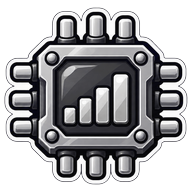
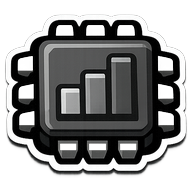
fix(combat+fiche): puces/etoiles/VS/rejouer agrandis, jauge lisible, clic court n'ouvre plus la fiche
Retours de l'audit visuel :

- MICRO-PUCES ET ETOILES : nouveaux dessins (plus gras, lisibles en petit) et
  taille d'affichage augmentee (puces 1.4->2em, etoiles 1.25->1.7em, triplet de
  la carte de campagne 1.5->1.9em) — « on voyait presque rien ».
- MEDAILLON VS : --cbt-versus-marque agrandi (56->76px sur telephone, plafond
  88->110px) — il etait trop petit au centre.
- ICONE REJOUER : .dc-again-icone 1.5->2.4em.
- JAUGE DE LA FICHE : le « 2 / 25 » s'inverse a la ligne de remplissage — couche
  claire sur toute la barre, couche sombre decoupee par le remplissage — au lieu
  d'une couleur fixe illisible sur le fond sombre a faible progression.
- CLIC COURT SUR UN CAPITAINE : n'ouvre plus la fiche (meme verrouille). La
  fiche ne s'ouvre qu'au maintien (480 ms) ; le tap ne fait qu'apercevoir /
  adopter. « On est cense rester appuye longtemps pour les details. »

Ajoute aussi UIRequiresFullScreen (iOS) : Apple exige les 4 orientations sur
iPad SAUF si l'app se declare plein ecran — ce qui autorise le verrou portrait.

diff --git a/www/css/dice.css b/www/css/dice.css
@@ -530,7 +530,7 @@
    155 px de large sur 852, soit 18,2 %, pour une hauteur qui depasse les cartes
    de 12 px en haut comme en bas. */
 #dicewrap .dc-vs-mark {
-  width: var(--cbt-versus-marque, clamp(58px, 18vw, 96px));
+  width: var(--cbt-versus-marque, clamp(80px, 22vw, 124px));
   height: auto;
   filter: drop-shadow(0 3px 8px rgba(0, 0, 0, .6));
   pointer-events: none;
@@ -797,13 +797,13 @@
    pour suivre le corps de texte de leur contexte (bandeau, fiche, carte de
    fin), donc pour grossir tout seuls sur tablette. Voir dice_state.js. */
 #dicewrap .dc-puce {
-  height: 1.4em;
+  height: 2em;
   width: auto;
   vertical-align: middle;
   filter: drop-shadow(0 1px 1px rgba(0, 0, 0, .55));
 }
 #dicewrap .dc-etoile-img {
-  height: 1.25em;
+  height: 1.7em;
   width: auto;
   vertical-align: -.2em;
   filter: drop-shadow(0 1px 1px rgba(0, 0, 0, .45));
@@ -811,7 +811,7 @@
 /* Le petit triplet des missions, sous chaque niveau de la carte, tient dans
    un bouton etroit : on serre les trois etoiles pour qu'elles ne debordent
    pas de la case. */
-#dicewrap .dc-camp-niv span .dc-etoile-img { height: 1.5em; vertical-align: middle; }
+#dicewrap .dc-camp-niv span .dc-etoile-img { height: 1.9em; vertical-align: middle; }
 
 /* Le score est LE chiffre du jeu : blanc, cerne, et gros. En or sur violet il
    se noyait dans le panneau — vu a l'ecran. */
@@ -1448,7 +1448,7 @@
 #dicewrap .dc-over-btns { display: flex; gap: 14px; justify-content: center; margin-top: 22px; flex-wrap: wrap; }
 /* Le bouton REJOUER porte son dessin (icon_replay.png), a gauche du mot. */
 #dicewrap .dc-again-btn { display: inline-flex; align-items: center; justify-content: center; gap: 8px; }
-#dicewrap .dc-again-icone { height: 1.5em; width: auto; flex: 0 0 auto; }
+#dicewrap .dc-again-icone { height: 2.4em; width: auto; flex: 0 0 auto; }
 #dicewrap .dc-over-win { box-shadow: inset 0 1px 0 rgba(255, 222, 170, .16), inset 0 0 30px rgba(0, 0, 0, .45), 0 0 60px rgba(201, 162, 39, .3), 0 12px 34px rgba(0, 0, 0, .6); }
 #dicewrap .dc-over-win h2 { color: var(--gold-hi); }
 #dicewrap .dc-over-loss h2 { color: #ff9a90; }
@@ -3631,19 +3631,20 @@
 }
 #dicewrap .dc-capf-jauge {
   position: relative;
-  height: 25px;
+  height: 26px;
   border-radius: 13px;
   background: rgba(12, 6, 30, .66);
   box-shadow: inset 0 0 0 2px rgba(232, 200, 106, .75);
   overflow: hidden;
 }
-#dicewrap .dc-capf-jauge > i {
-  display: block;
-  height: 100%;
-  border-radius: 11px;
-  background: linear-gradient(180deg, #f6d872, #d9a52c);
-  transition: width .3s ease;
-}
+/* ⛔ LE TEXTE S'INVERSE SUR LA LIGNE DE REMPLISSAGE. Un « 2 / 25 » d'une couleur
+   fixe restait illisible : sombre sur la piste sombre a faible progression, et
+   se perdait sur l'or a forte. On en pose DEUX, parfaitement superposes : une
+   couche CLAIRE sur toute la barre (lisible sur le fond sombre), et une couche
+   SOMBRE posee DANS le remplissage, que celui-ci decoupe (lisible sur l'or). La
+   bascule tombe donc pile a la frontiere du remplissage. La couche sombre est
+   large comme TOUTE la barre (largeur pilotee en ligne = 100/part %) et centree :
+   son centre retombe exactement sur celui de la couche claire. */
 #dicewrap .dc-capf-jauge > b {
   position: absolute;
   inset: 0;
@@ -3651,6 +3652,29 @@
   place-items: center;
   font-size: clamp(12px, 3.5vw, 14.5px);
   font-weight: 700;
+  color: #f6eccf;
+  text-shadow: 0 1px 2px rgba(0, 0, 0, .75);
+}
+#dicewrap .dc-capf-jauge > i {
+  position: absolute;
+  left: 0;
+  top: 0;
+  height: 100%;
+  border-radius: 11px;
+  background: linear-gradient(180deg, #f6d872, #d9a52c);
+  overflow: hidden;
+  transition: width .3s ease;
+}
+#dicewrap .dc-capf-jauge > i > span {
+  position: absolute;
+  left: 0;
+  top: 0;
+  height: 100%;
+  display: grid;
+  place-items: center;
+  font-size: clamp(12px, 3.5vw, 14.5px);
+  font-weight: 700;
+  white-space: nowrap;
   color: #2a1806;
   text-shadow: 0 1px 0 rgba(255, 255, 255, .4);
 }

diff --git a/www/js/pages/dice_lobby.js b/www/js/pages/dice_lobby.js
@@ -256,6 +256,11 @@ function ficheCapitaine(id) {
      La phrase seule suffit — la jauge ne s'affiche qu'a partir du moment ou il
      y a quelque chose a parcourir. */
   const part = seuil > 0 ? Math.min(1, jouees / seuil) : 1;
+  /* Le meme texte, deux fois : couche claire (toute la barre) et couche sombre
+     (dans le remplissage, decoupee). La largeur de la couche sombre vaut TOUTE
+     la barre — 100/part % du remplissage — pour que son centre coincide. */
+  const txtJauge = esc(Math.min(jouees, seuil) + ' / ' + seuil);
+  const largeurTexte = part > 0 ? Math.round(100 / part) : 100;
 
   /* ⚠ LE NOM DE L'EFFET EST EN OR ET SA PHRASE EN BLANC, comme sur la maquette.
      Sans serveur, `offreDe` retombe sur sa table de secours : le panneau garde
@@ -329,8 +334,8 @@ function ficheCapitaine(id) {
         ${seuil > 0 ? `
         <div class="dc-capf-jauge" role="progressbar"
              aria-valuenow="${Math.min(jouees, seuil)}" aria-valuemin="0" aria-valuemax="${seuil}">
-          <i style="width:${Math.round(part * 100)}%"></i>
-          <b>${esc(Math.min(jouees, seuil) + ' / ' + seuil)}</b>
+          <b>${txtJauge}</b>
+          <i style="width:${Math.round(part * 100)}%"><span style="width:${largeurTexte}%">${txtJauge}</span></i>
         </div>` : ''}
       </div>
 
@@ -522,8 +527,12 @@ function wireCaptains(el) {
       if (!enCharge) return;                  // relache hors du medaillon : rien
       /* Clic court : on choisit tout de suite si le capitaine est debloque ;
          sinon on ouvre sa fiche, la seule chose qu'il puisse offrir. */
-      if (ferme) { apercu(); ouvrirFiche(id); }
-      else { adopter(id); apercu(); }
+      /* ⛔ UN CLIC COURT N'OUVRE PLUS LA FICHE — MEME VERROUILLE. « On est cense
+         rester appuye longtemps pour ouvrir les details. » Le clic court met le
+         capitaine en avant (apercu) et, s'il est debloque, l'adopte. La fiche ne
+         s'ouvre qu'au maintien (CAP_HOLD_MS), jamais au tap. */
+      apercu();
+      if (!ferme) adopter(id);
     };
 
     b.onpointerdown = demarrer;

diff --git a/app/css/combat.css b/app/css/combat.css
@@ -413,7 +413,7 @@
      Le nom a depuis change de place — il enjambe le score — et le medaillon a
      pu reprendre sa cote.
      Mesure : 14 vw laisse 92 px, soit quatre pixels de marge. */
-  --cbt-versus-marque: clamp(50px, 15vw, 88px);
+  --cbt-versus-marque: clamp(66px, 19vw, 110px);
 
   /* ── LE BANDEAU DU BAS : CALE, GOBELET, SORTIE ─────────────────────────── */
 
@@ -775,7 +775,7 @@
      ecrire `width` ici perdait a specificite egale, et le medaillon gardait ses
      88 px — vingt de trop, que la carte du joueur payait en passant sous le
      bandeau. Une feuille pilotee par des variables se regle par ses variables. */
-  #dicewrap { --cbt-versus-marque: 56px; }
+  #dicewrap { --cbt-versus-marque: 76px; }
 }
 #dicewrap .dc-vs-mark { width: var(--cbt-versus-marque); }
 

diff --git a/www/css/combat.css b/www/css/combat.css
@@ -413,7 +413,7 @@
      Le nom a depuis change de place — il enjambe le score — et le medaillon a
      pu reprendre sa cote.
      Mesure : 14 vw laisse 92 px, soit quatre pixels de marge. */
-  --cbt-versus-marque: clamp(50px, 15vw, 88px);
+  --cbt-versus-marque: clamp(66px, 19vw, 110px);
 
   /* ── LE BANDEAU DU BAS : CALE, GOBELET, SORTIE ─────────────────────────── */
 
@@ -775,7 +775,7 @@
      ecrire `width` ici perdait a specificite egale, et le medaillon gardait ses
      88 px — vingt de trop, que la carte du joueur payait en passant sous le
      bandeau. Une feuille pilotee par des variables se regle par ses variables. */
-  #dicewrap { --cbt-versus-marque: 56px; }
+  #dicewrap { --cbt-versus-marque: 76px; }
 }
 #dicewrap .dc-vs-mark { width: var(--cbt-versus-marque); }
 
